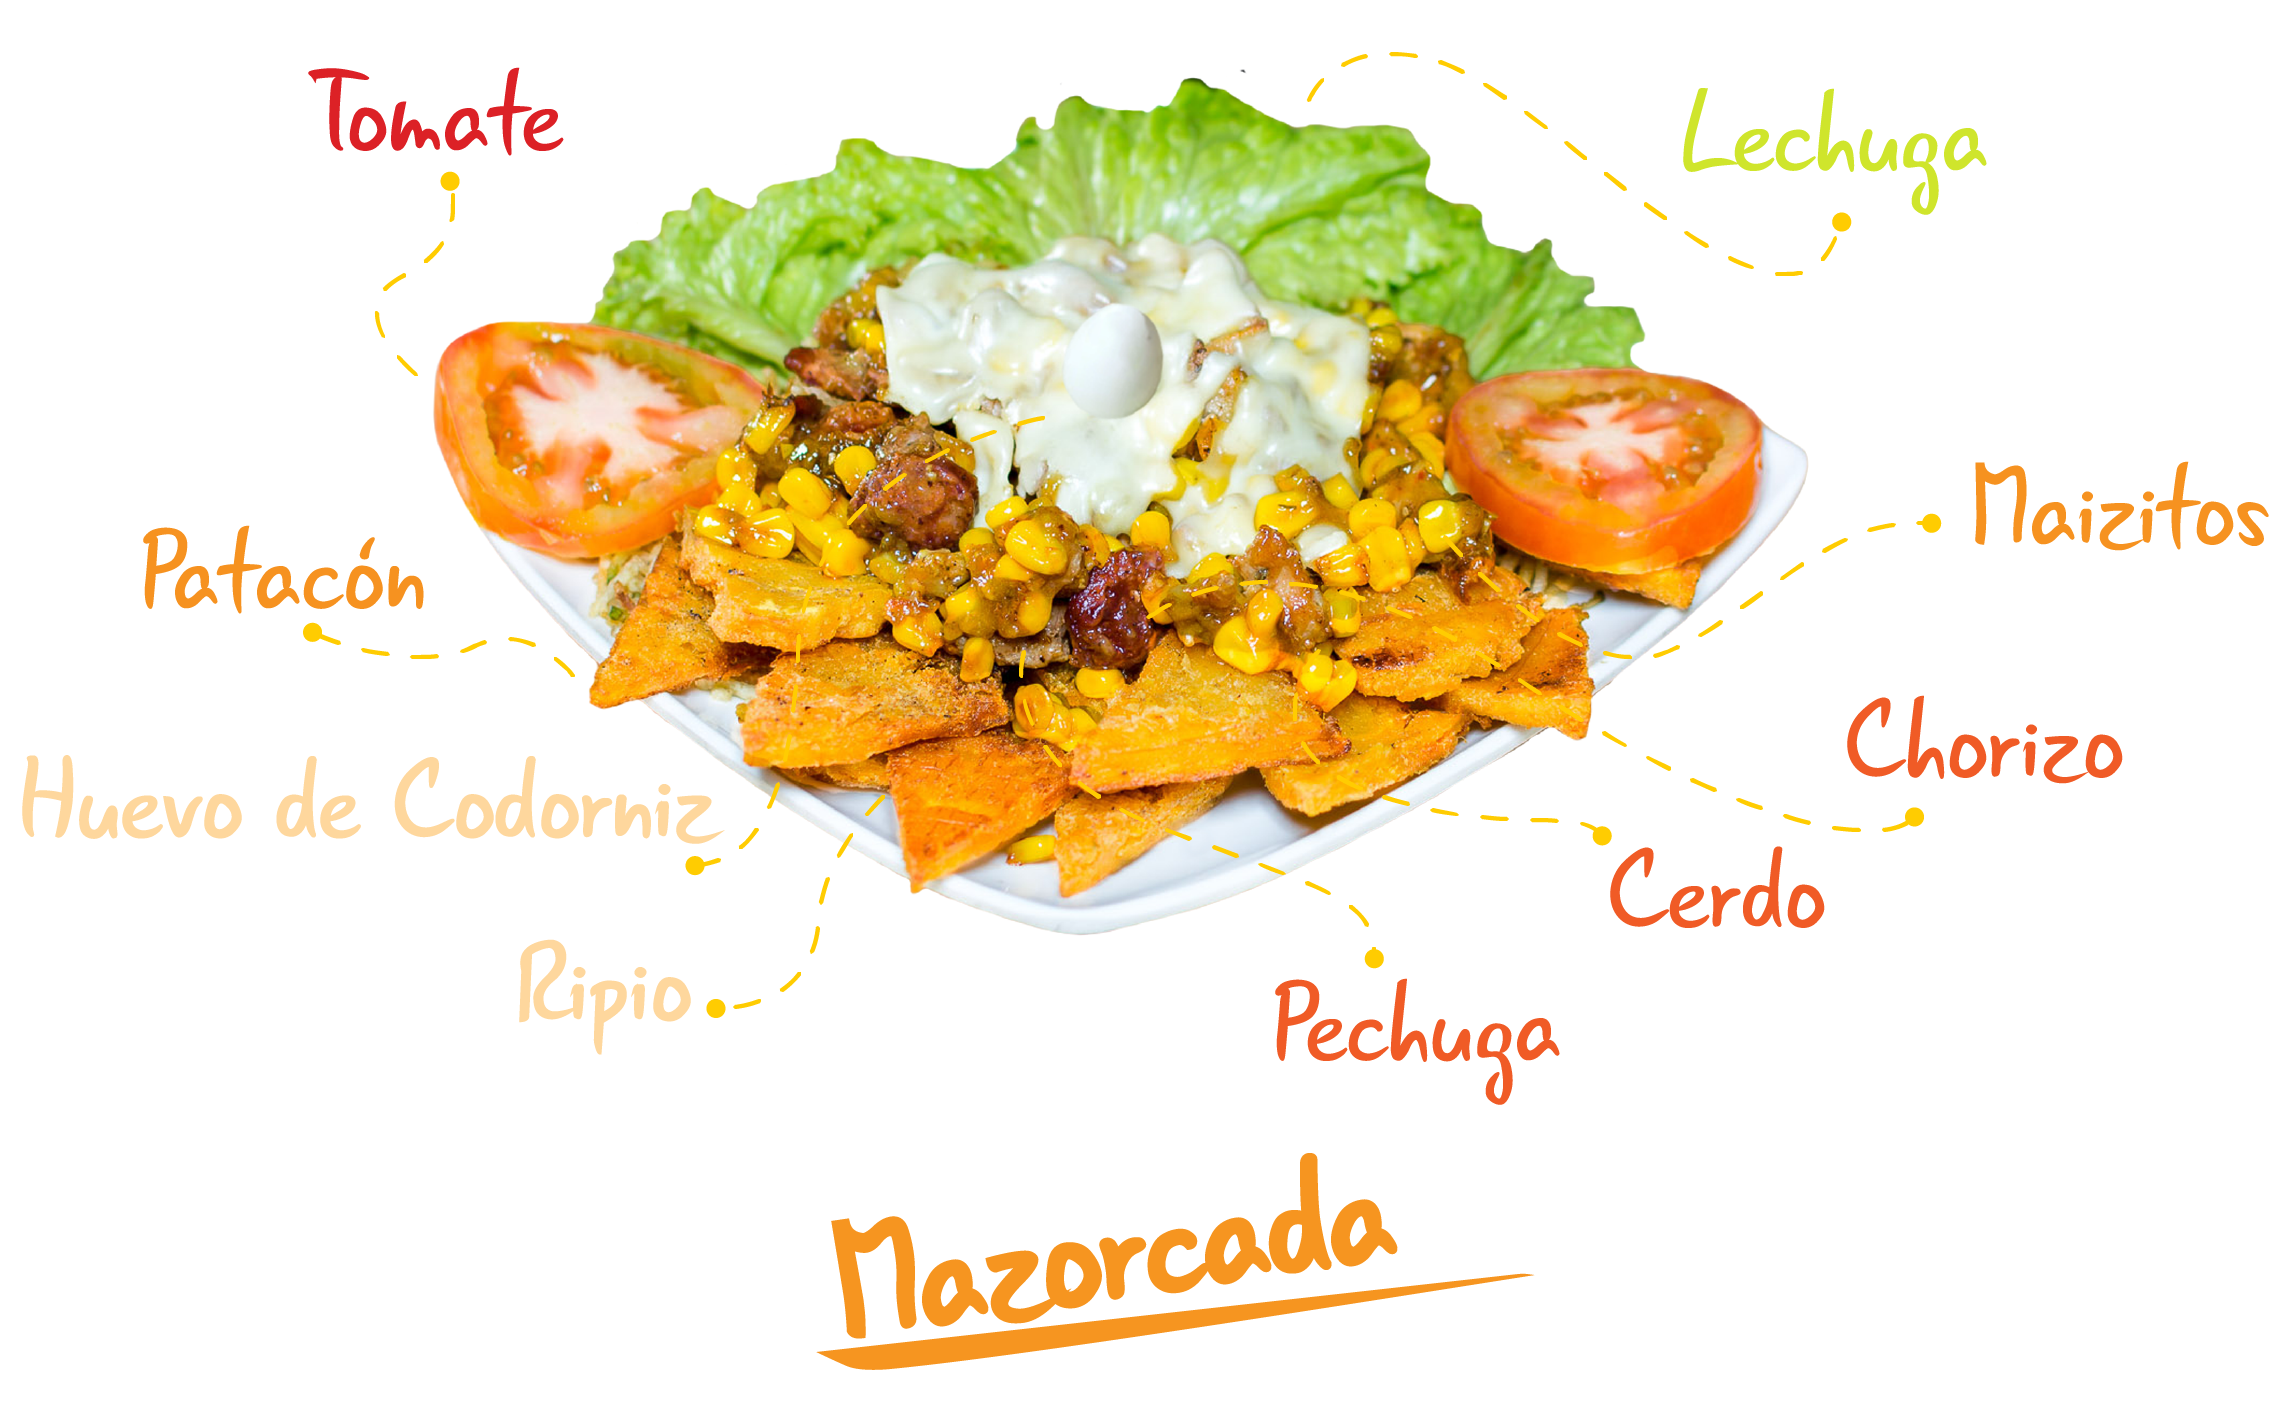
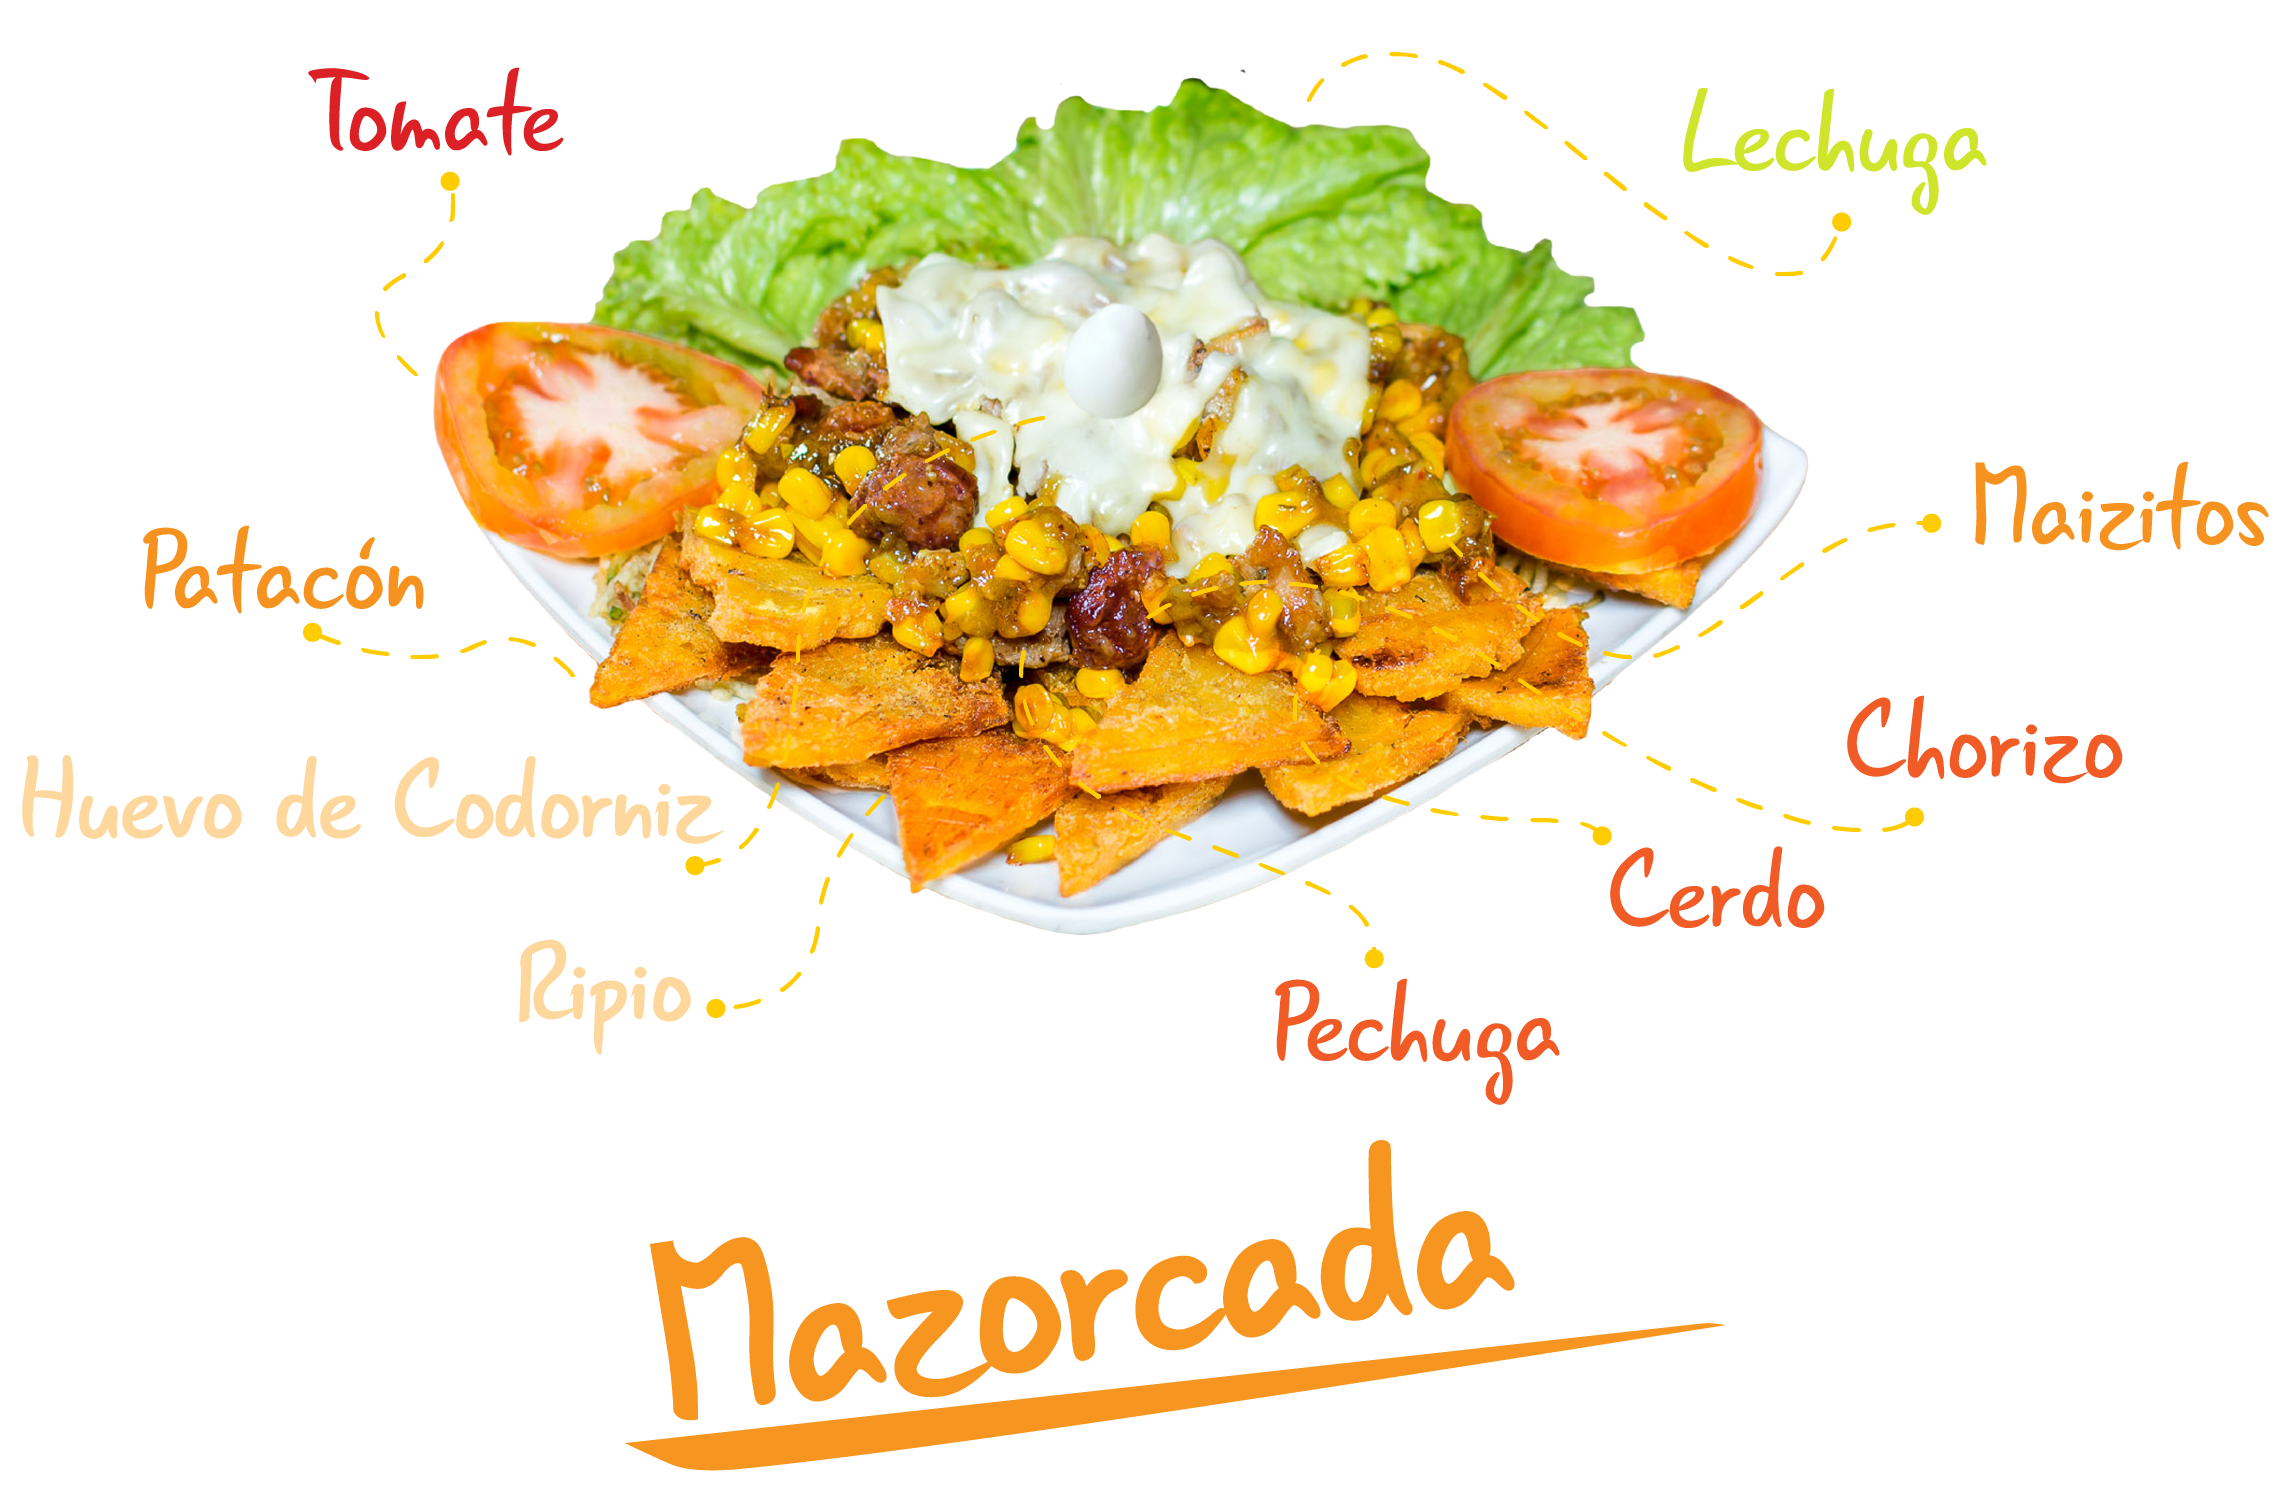
Mazorcada Fixed

diff --git a/index.html b/index.html
@@ -373,9 +373,9 @@
                 
             <div class="bg-black align-center">
                 <!-- Melosa -->
-                <div class="product-card w-100 column relative">
+                <div class="jugo-card w-100 column relative">
                     <div class="product-photo relative row-8">
-                        <img class="w-80" src="assets/images/FastFood/Mazorcada-22.png"/>
+                        <img class="w-90" src="assets/images/FastFood/Mazorcada-22.png"/>
                     </div>
                     <div class="product-content row-4">
                         <a href="#" class="btn orange K2D" id="addMelosa">Agregar</a>

diff --git a/css/styles.css b/css/styles.css
@@ -339,6 +339,9 @@ h3{
     .w-80{
         width: 80%;
     }
+    .w-90{
+        width: 90%;
+    }
 
     /* Leterring helpers */
     .bold{
